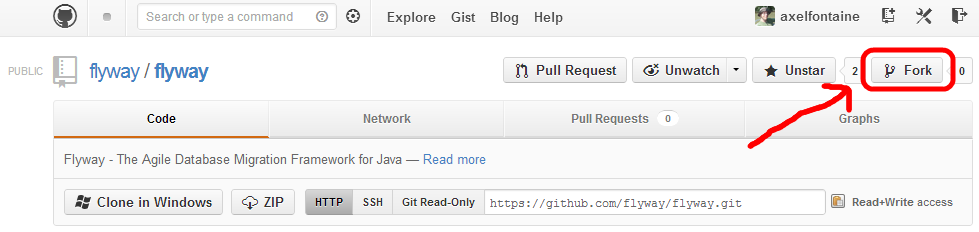
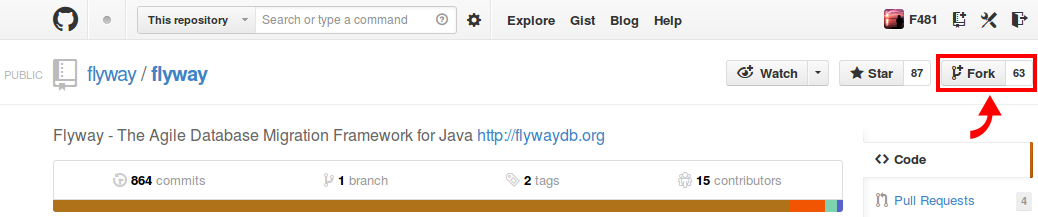
updated how-to-contribute section with screenshots of the new github design

diff --git a/contribute/howToContribute.html b/contribute/howToContribute.html
@@ -65,7 +65,11 @@ subtitle: How to Contribute
     <p>Satisfied with your work? Great! Show the world! Create a <strong>pull request</strong> and briefly describe your
         changes:</p>
 
+    Step 1: <br />
     <img src="/assets/img/pull-request.png" alt="Pull Request">
+    <br /><br /><br />
+    Step 2: <br />
+    <img src="/assets/img/pull-request2.png" alt="Pull Request2">
 
     <p>We'll have a look at them and provide you feedback until they're
         ready to be merged. If they are approved, we'll merge them in the mainline and include them in the next
